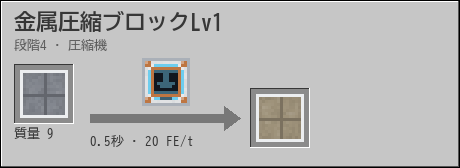
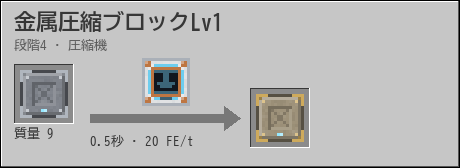
Redraw the compressed blocks as bracketed blocks
Compressed Blocks and Compressed Metal Blocks are drawn as a block clamped by
corner brackets around a recessed, cross-braced plate. The lights on the lower
edge count the level, and the metal blocks have brass brackets. The HD pack
doubles the same pixels.

Changed region(s): [[0.5478, 0.5357, 0.6696, 0.8631], [0.0304, 0.4167, 0.1522, 0.7143]]

diff --git a/tools/art16.py b/tools/art16.py
@@ -1199,21 +1199,46 @@ def strange_matter():
 
 
 def compressed_block(level, metal):
+    """角金具で締めた塊（0.20.0）。くぼんだ中の板に斜めの押さえ、下の縁の灯りの数（1〜3）で段が読める。金属は真鍮の金具。"""
     base = (128, 132, 140) if not metal else (158, 146, 122)
-    b = tuple(int(c * (1 - 0.2 * (level - 1))) for c in base)
-    im = weathered(b, seed=20 + level + (10 if metal else 0), strength=1.4)
+    b = tuple(int(c * (1 - 0.17 * (level - 1))) for c in base)
+    im = weathered(b, seed=70 + level + (10 if metal else 0), edge=False, strength=1.1)
     d = ImageDraw.Draw(im)
-    step = {1: 8, 2: 4, 3: 2}.get(level, 8)
-    for p in range(0, S, step):
-        d.line([(p, 0), (p, S - 1)], fill=rgba(darken(b, 0.22)))
-        d.line([(0, p), (S - 1, p)], fill=rgba(darken(b, 0.22)))
-    if level >= 2:
-        for p in range(step, S, step):
-            for q in range(step, S, step):
-                d.point((p, q), fill=(200, 230, 255, 255))
-    d.rectangle([0, 0, S - 1, S - 1], outline=rgba((236, 238, 240) if level < 3 else (150, 232, 255)))
+    put = lambda x, y, c: im.putpixel((x, y), rgba(c))
+    trim = (176, 182, 190) if not metal else (206, 170, 92)
+    glow = (150, 232, 255)
+    d.rectangle([0, 0, S - 1, S - 1], outline=rgba(darken(b, 0.45)))
+    d.rectangle([1, 1, S - 2, S - 2], outline=rgba(lighten(b, 0.10)))
+    # 出っ張った縁: 左上を明るく、右下を暗く
+    for i in range(1, S - 1):
+        put(i, 1, lighten(im.getpixel((i, 1))[:3], 0.18))
+        put(1, i, lighten(im.getpixel((1, i))[:3], 0.18))
+        put(i, S - 2, darken(im.getpixel((i, S - 2))[:3], 0.25))
+        put(S - 2, i, darken(im.getpixel((S - 2, i))[:3], 0.25))
+    # 内側のくぼんだ板（逆の陰）
+    for i in range(4, 12):
+        put(i, 4, darken(b, 0.25))
+        put(4, i, darken(b, 0.25))
+        put(i, 11, lighten(b, 0.12))
+        put(11, i, lighten(b, 0.12))
+    # 斜めの押さえ（Lv2 から太く）
+    for i in range(5, 11):
+        put(i, i, darken(b, 0.18))
+        put(15 - i, i, darken(b, 0.18))
+        if level >= 2:
+            put(i + 1 if i < 10 else i, i, darken(b, 0.10))
+    # 角金具
+    for cx, cy, sx, sy in ((0, 0, 1, 1), (15, 0, -1, 1), (0, 15, 1, -1), (15, 15, -1, -1)):
+        for k in range(4):
+            put(cx + sx * k, cy, trim)
+            put(cx, cy + sy * k, trim)
+        put(cx + sx, cy + sy, darken(trim, 0.25))
+        put(cx + sx * 2, cy + sy * 2, lighten(trim, 0.3))
+    # 段の灯り（下の縁に 1〜3 つ）
+    for x in {1: [7], 2: [5, 9], 3: [4, 7, 10]}.get(level, [7]):
+        put(x, 13, glow)
+        put(x + 1, 13, lighten(glow, 0.3))
     return im
-
 
 # ---------------------------------------------------------------- アイテム（16×16）
 

diff --git a/tools/art.py b/tools/art.py
@@ -492,24 +492,10 @@ def strange_matter():
 
 
 def compressed_block(level, metal):
-    im, d = new()
-    base = (126, 130, 138) if not metal else (156, 144, 120)
-    k = 1 - 0.2 * (level - 1)
-    b = tuple(int(c * k) for c in base)
-    d.rectangle([0, 0, S - 1, S - 1], fill=rgba(b))
-    step = {1: 16, 2: 8, 3: 4}.get(level, 16)
-    seam = (200, 230, 255) if level >= 2 else lighten(b, 0.3)
-    for p in range(0, S, step):
-        d.line([(p, 0), (p, S - 1)], fill=rgba(darken(b, 0.25)))
-        d.line([(0, p), (S - 1, p)], fill=rgba(darken(b, 0.25)))
-    for p in range(step, S, step):
-        for q in range(step, S, step):
-            d.point((p, q), fill=rgba(seam))
-    d.rectangle([0, 0, S - 1, S - 1], outline=rgba((236, 238, 240) if level < 3 else (150, 232, 255)))
-    if metal:
-        d.line([(2, 2), (S // 2, 2)], fill=rgba(lighten(b, 0.45)))
-    return im
-
+    """16×16 の絵（art16.compressed_block）をそのまま2倍にする（0.20.0。ドットの形をそろえる）。"""
+    import art16
+    from PIL import Image
+    return art16.compressed_block(level, metal).resize((S, S), Image.NEAREST)
 
 # ---------------------------------------------------------------- アイテム
 
